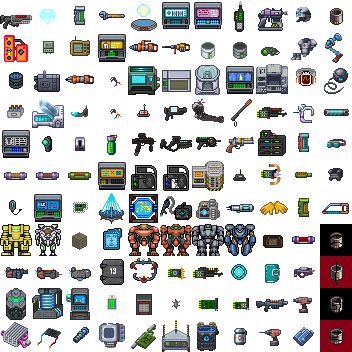
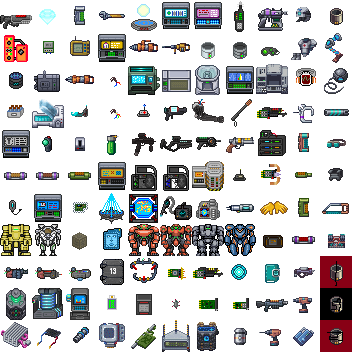
Fixes master and last of my end of the grayson rewards

Changed region(s): [[0.9062, 0.625, 1.0, 0.75]]

diff --git a/nano/css/shared.css b/nano/css/shared.css
@@ -976,6 +976,7 @@ img.sciTechTreeIconToolTip {
 .icon-greysonroboticleg { background-position: -320px -32px; }
 .icon-greysonthermals { background-position: -320px -160px; }
 .icon-greysonarmor { background-position: -320px -192px; }
+.icon-roomba_kit { background-position: -320px -256px; }
 
 .sciMenuButton {
     width: 300px;
